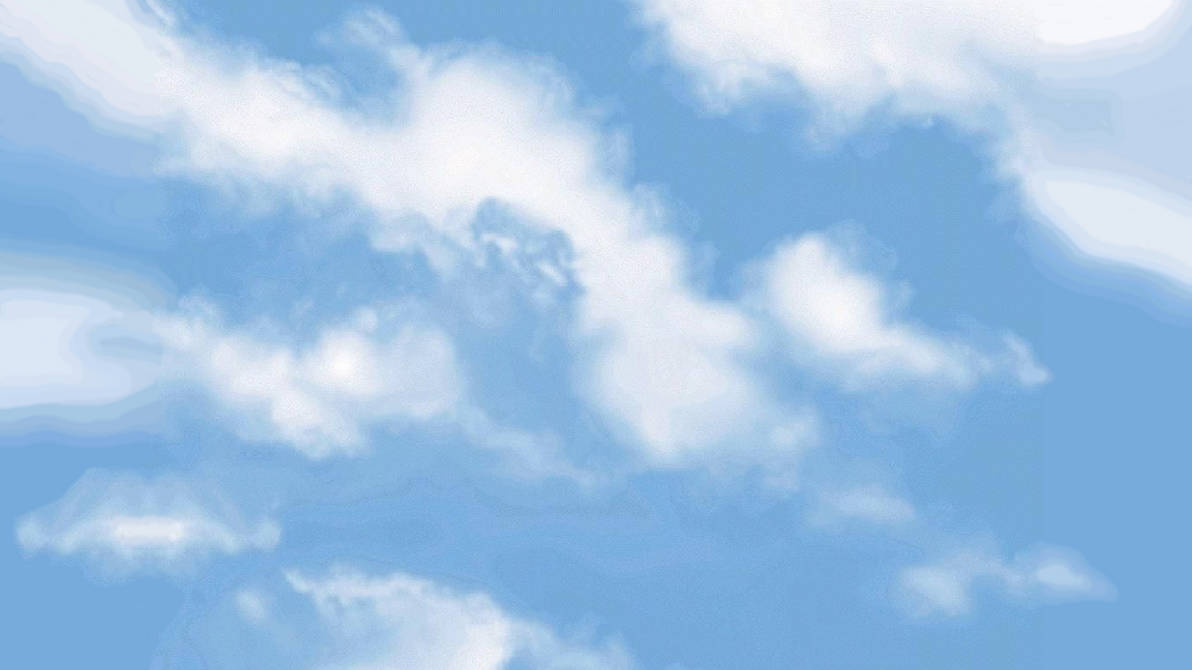
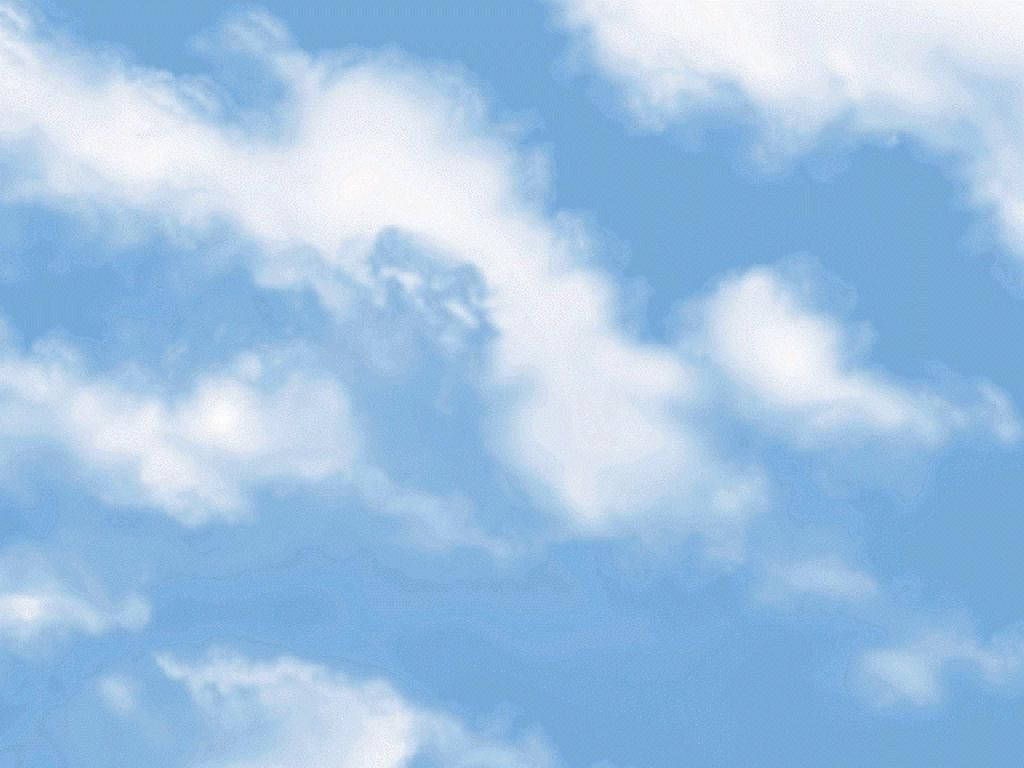
loading scene done

diff --git a/index.html b/index.html
@@ -1,19 +1,24 @@
 <!DOCTYPE html>
 <html lang="en">
+
 <head>
     <meta charset="UTF-8">
     <meta name="viewport" content="width=device-width, initial-scale=1.0">
     <title>Windows 95 Startup</title>
     <link rel="stylesheet" href="css/w95.css">
     <style>
-        body, html {
+        body,
+        html {
             height: 100%;
             margin: 0;
             background-color: black;
             color: white;
             background-size: cover;
+            /* Ensure background image covers the entire screen */
             background-position: center;
             background-repeat: no-repeat;
+            background-attachment: fixed;
+            /* Keep the background image fixed during scrolling */
         }
 
         .scene {
@@ -38,23 +43,44 @@
 
         .center-content {
             display: flex;
+            flex-direction: column;
+            /* Stack items vertically */
             justify-content: center;
             align-items: center;
             height: 100%;
         }
 
         .logo {
-            width: 60vw; /* Stretch the logo based on viewport width */
-            height: auto; /* Maintain aspect ratio */
+            width: 60vw;
+            /* Stretch the logo based on viewport width */
+            height: auto;
+            /* Maintain aspect ratio */
+            padding-bottom: 5%;
         }
 
         /* Media query for larger viewports */
         @media (min-width: 1024px) {
             .logo {
-                padding-top: 10%;
-                width: 50vw; 
+                padding-bottom: 5%;
+                width: 30vw;
             }
         }
+
+        .progressbar {
+            width: 40vw;
+            /* Stretch the logo based on viewport width */
+            height: auto;
+            /* Maintain aspect ratio */
+        }
+
+        /* Media query for larger viewports */
+        @media (min-width: 1024px) {
+            .progressbar {
+
+                width: 20vw;
+            }
+        }
+
 
         .text-container {
             padding: 20px;
@@ -62,11 +88,12 @@
         }
     </style>
 </head>
+
 <body>
     <div class="scene active" id="scene1">
         <div class="text-container">
             <div class="loading-text">
-                Starting Windows 95... <br> <br> 
+                loading ... <br> <br>
                 <span class="flicker">_</span>
             </div>
         </div>
@@ -74,45 +101,69 @@
 
     <div class="scene" id="scene2">
         <div class="center-content">
-            <img src="imgs/mstile-150x150.png" alt="Windows 95 Logo" class="logo">
+            <img src="imgs/startuplogo.png" alt="Windows 95 Ori Logo" class="logo">
+            <img src="imgs/Progressbar.png" alt="Progress bar" class="progressbar">
         </div>
+
     </div>
 
     <div class="scene" id="scene3">
         <div class="text-container">
-            <div class="loading-text">Loading drivers...</div>
-            <br> 
-            <span class="flicker">_</span>
+            <div class="loading-text">Welcome to</div>
+            <br>
+            <div class="loading-text">Ori "ormitus" Mor portfolio</div>
+            <br>
+            <div class="loading-text">___</div>
+            <span class="flicker">1312</span>
         </div>
     </div>
-
     <script>
         const scenes = ['scene1', 'scene2', 'scene3'];
         let currentScene = 0;
-
+    
         function showNextScene() {
             if (currentScene < scenes.length) {
                 document.getElementById(scenes[currentScene]).classList.remove('active');
                 currentScene++;
                 if (currentScene < scenes.length) {
-                    document.getElementById(scenes[currentScene]).classList.add('active');
-
+    
                     // Change background for scene2
                     if (currentScene === 1) {
                         document.body.style.backgroundImage = "url('imgs/clouds.jpg')";
+                        showProgressBarTransition(); // Call progress bar transition for scene 2
                     } else {
                         document.body.style.backgroundColor = 'black';
                         document.body.style.backgroundImage = ''; // Reset background image
                     }
-
-                    setTimeout(showNextScene, 2000); // Adjust the timing as needed
+    
+                    document.getElementById(scenes[currentScene]).classList.add('active');
+    
+                    let sceneDuration = 3000; // Final scene should last 2 seconds
+                    if (currentScene === 1) {
+                        sceneDuration = 4500; // Scene 2 should last 3 seconds (1s for each progress bar)
+                    }
+    
+                    setTimeout(showNextScene, sceneDuration);
                 } else {
                     window.location.href = 'main.html'; // Load main page after the last scene
                 }
             }
         }
-
-        setTimeout(showNextScene, 2000); // Start the sequence after the first delay
+    
+        function showProgressBarTransition() {
+            const progressBar = document.querySelector('.progressbar');
+            setTimeout(() => {
+                progressBar.src = 'imgs/Progressbar2.png';
+            }, 1500); // Change to Progressbar2 after 1 second
+    
+            setTimeout(() => {
+                progressBar.src = 'imgs/Progressbar3.png';
+            }, 3000); // Change to Progressbar3 after 2 seconds
+        }
+    
+        setTimeout(showNextScene, 2500); // First scene lasts 2 seconds
     </script>
+    
 </body>
+
 </html>
